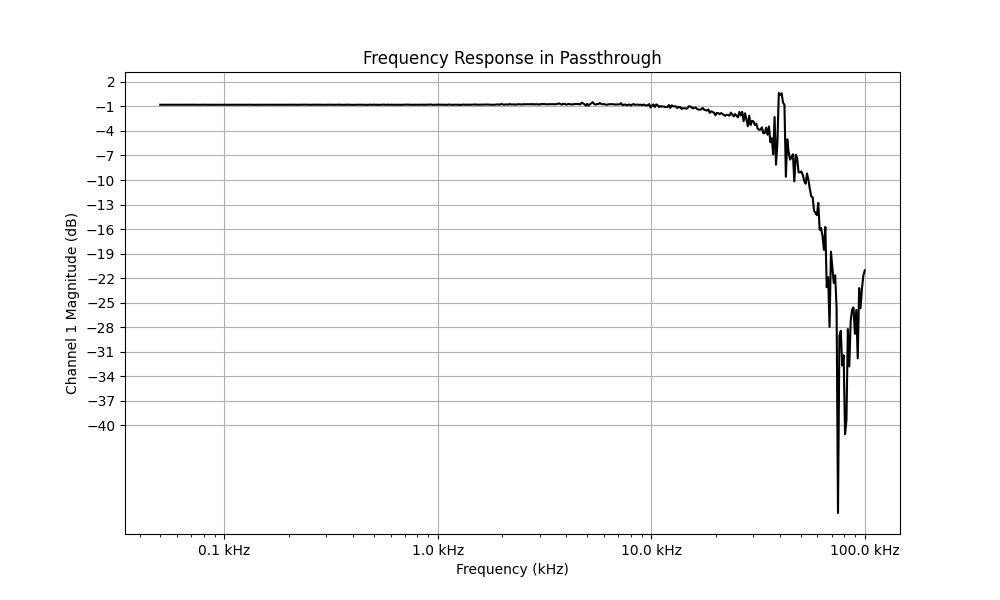
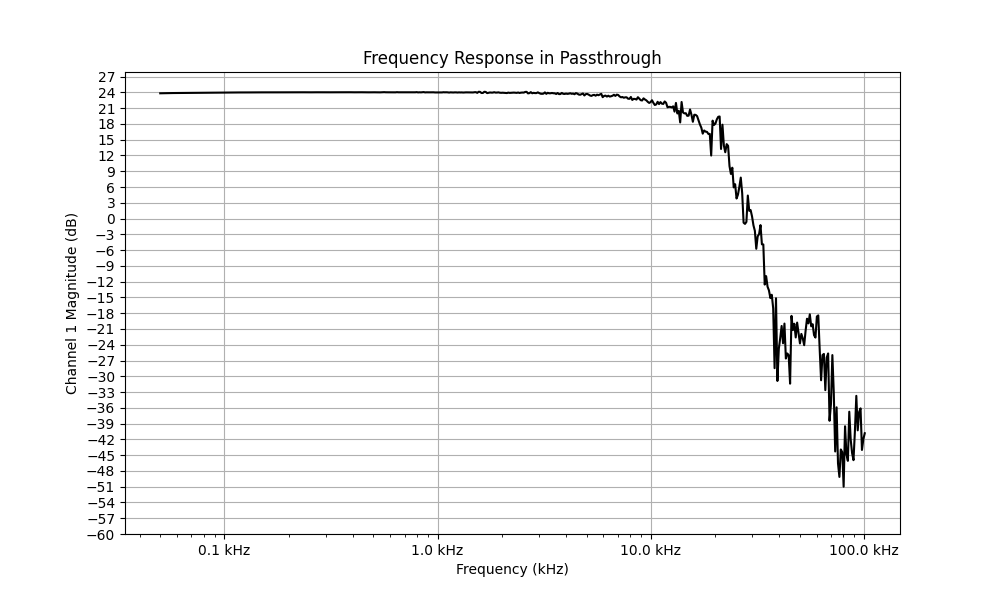
Reduced noise
Reduced ADC rate to remove problem with noise

diff --git a/include/attiny-audio-processor.h b/include/attiny-audio-processor.h
@@ -33,13 +33,13 @@ void init_attiny85_audio_processor(UserFunctionType processFunction){
 
     /* -------- PWM setup (Timer1) -------- */
     // F_PWM = F_timer / (prescale * 256)
-    // 64 MHz / (1 * 256) = 250 kHz
+    // 64 MHz / (2 * 256) = 125 kHz
     DDRB |= 1<<PB1;     // Enable PWM output pins
     PLLCSR = 1<<PLLE;   // Enable PLL
     PLLCSR |= 1<<PCKE;  // Use 64 MHz PLL output as timer clock
     TCCR1 |= 1<<PWM1A;  // Enable PWM A
     TCCR1 |= 1<<COM1A1; // Clear OC1A on compare match
-    TCCR1 |= 1<<CS10;   // Set prescale to 1 (no prescale)
+    TCCR1 |= 1<<CS11;   // Set prescale to 2
     
     /* -------- Timer setup (Timer0) -------- */
     // Output sample rate formula: (F_CPU) / (prescale * (1 + OCR0A))
@@ -53,17 +53,18 @@ void init_attiny85_audio_processor(UserFunctionType processFunction){
     OCR0A  = 24;        // Compare value
 
     /* -------- ADC setup -------- */
-    // F_ADC: F_CPU / prescale = 16 MHz / 8 = 2 MHz
+    // F_ADC: F_CPU / prescale = 16 MHz / 16 = 1 MHz
     // (ATtiny85 conversion time is approx. 13.5 ADC clock cycles)
-    // ADC sample rate: 2 MHz / 13.5 = 148 kHz = 1/6.757 us
+    // ADC sample rate: 1 MHz / 13.5 = 74.07 kHz 
 
     DDRB &= ~(1<<PB4);      // Enable ADC input on pin 3 (A2/PB4)
     ADMUX = 0b00000010;     // Use ADC2
     ADCSRA = 1<<ADEN;       // Enable ADC
     ADCSRA |= 1<<ADATE;     // Enable auto trigger
+    ADCSRA |= 1<<ADPS1 | 1<<ADPS0; // Set prescale to 8
     // ADPS 0:2 bits in ADCSRA sets the prescale
     // 0b000: 2, 0b001: 2, 0b010: 4, 0b011: 8, 0b100: 16, 0b101: 32, 0b110: 64, 0b111: 128
-    ADCSRB |= 1<<ADPS1 | 1<<ADPS0;  // Set prescale to 8
+    ADCSRB |= 1<<ADTS1 | 1<<ADTS0;  // Set trigger source to Timer0 compare match A
     ADCSRB = 1<<ACME;       // Enable analog comparator multiplexer
     DIDR0 |= 1<<ADC1D;      // Disable digital input on ADC2
     ADCSRA |= 1<<ADSC;      // Start conversion

diff --git a/src/main.cpp b/src/main.cpp
@@ -20,7 +20,7 @@ void gainWithOverflow(int8_t& input) {
 }
 
 int main() {
-    init_attiny85_audio_processor(gainWithoutOverflow);
+    init_attiny85_audio_processor(nullptr);
 
     /* Main Loop */
     while (1)

diff --git a/README.md b/README.md
@@ -8,7 +8,7 @@ The ATtiny85 is very limited compared to other microcontroller having some of th
 - 512 EEPROM
 - 2 timers
 
-The project uses two of the available timers, one for PWM output and one for keeping a consistent sample rate. With 512B of SRAM it is very limited what kind of recursive processing that can be done. The ADC is properly the biggest bottleneck in this project not being able to read with the same speed that the MCU can output samples. Below is a plot showing the frequency response when sweeping a sine wave from _50Hz_ to _100kHz_. Note that this measurement was done without any filtering after the pwm, which would also further dampen the signal. The plot shows that we can get quite a good response up to at least _20kHz_.
+The project uses two of the available timers, one for PWM output and one for keeping a consistent sample rate. With 512B of SRAM it is very limited what kind of recursive processing that can be done. The ADC is properly the biggest bottleneck in this project not being able to read with the same speed that the MCU can output samples. Below is a plot showing the frequency response when sweeping a sine wave from _50Hz_ to _100kHz_ (filter cutoff at _20kHz_). The plot shows that we can get quite a good response.
 
 <p align="center">
 <img 
@@ -16,7 +16,7 @@ The project uses two of the available timers, one for PWM output and one for kee
   src="https://github.com/simonjuha/ATtiny85-Audio-Processor/blob/main/media/frequencyResponsePlot.png" width=75% height=75%>
 </p>
 
-Using a _10kohm_ resistor and a _47nF_ capacitor to filter the pwm signal, an output as seen below, can be achieved. The filter LP in this case might be too strong, but avoiding a jagged signal from the pwm vs amplitude loss is a compromise that has to be made.
+Using a third order Sallen-Key low-pass filter after the pwm signal (20kHz cutoff), an output as seen below, can be achieved.
 
 <p align="center">
 <img alt="Comparison of the input/output of a 10kHz sine (filtered pwm)" src="https://github.com/simonjuha/ATtiny85-Audio-Processor/blob/main/media/sineinput.png" width=75% height=75%>
